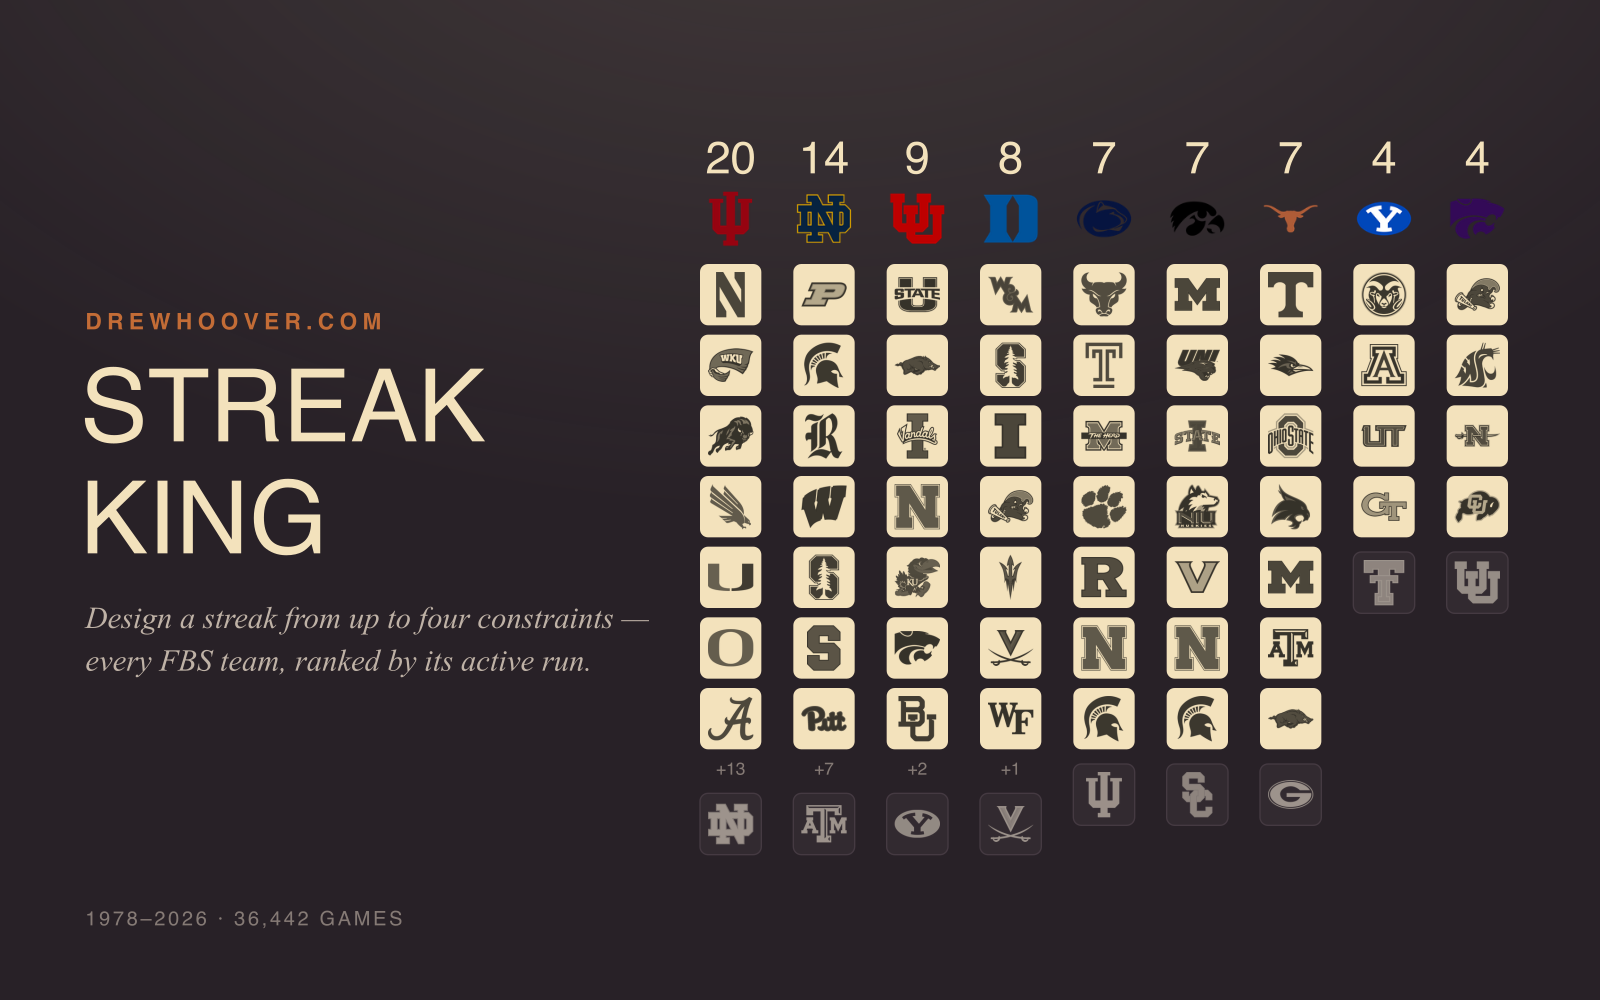
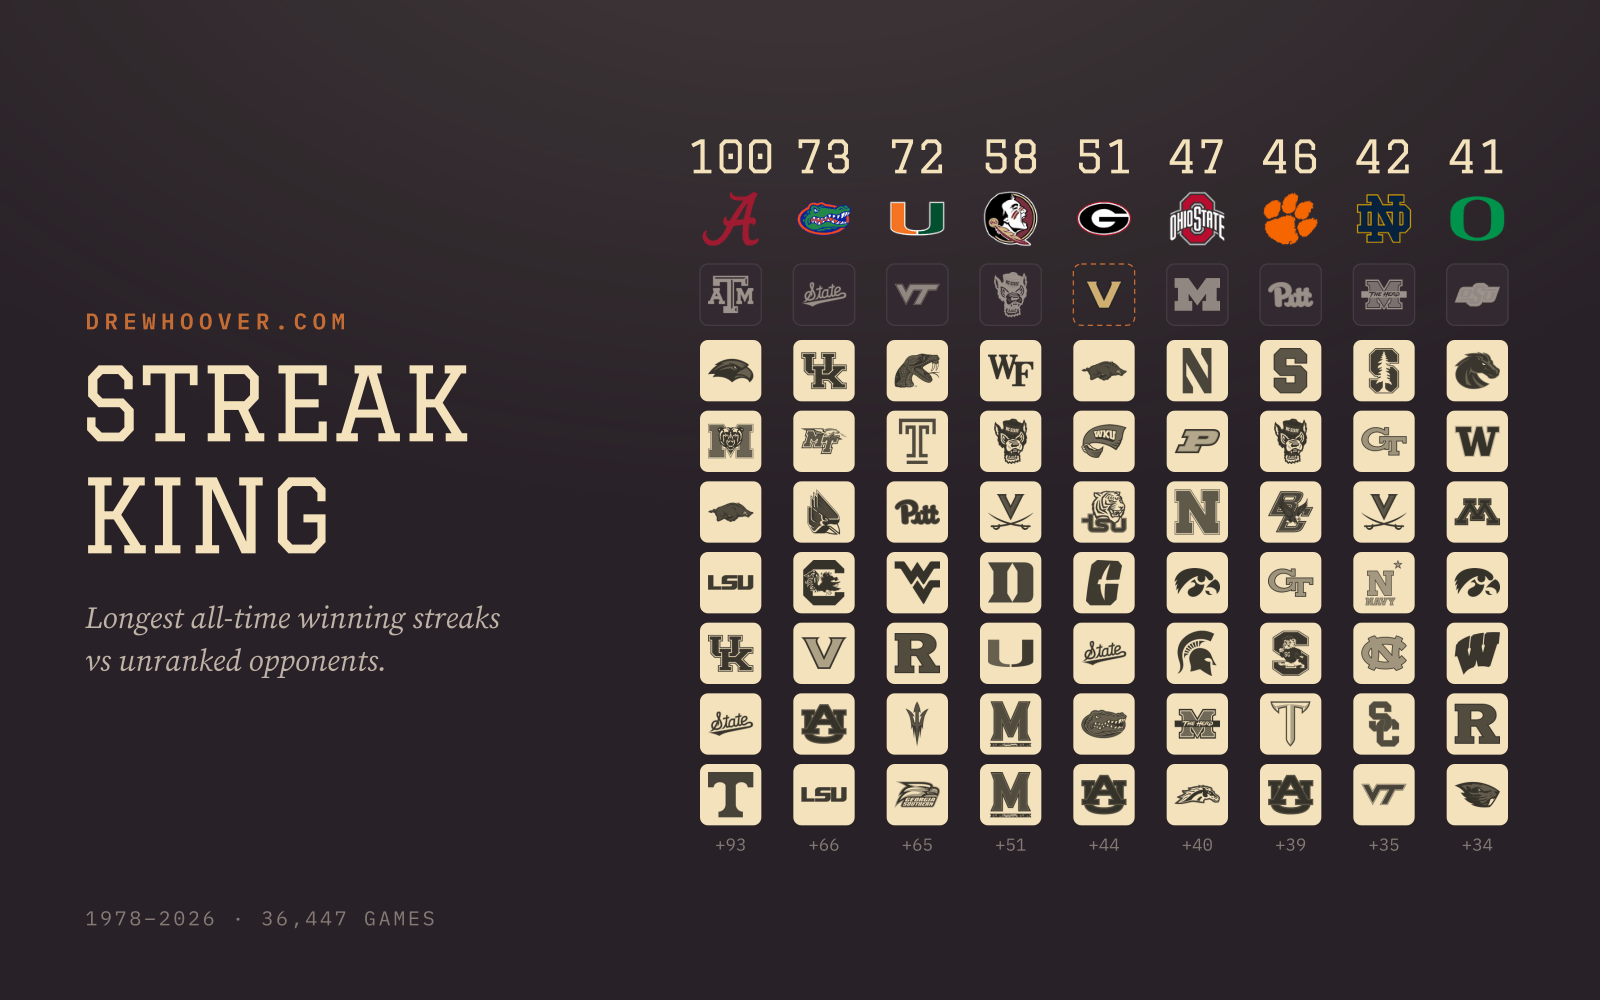
Refresh Streak King and Hostile Territory cards
Streak King: the repo's current card, drawn in the site's own fonts (Graduate,
Plex Mono, Source Serif) instead of the Helvetica fallback.
Hostile Territory: opponent-mark chips like the live site, Kiffin 1–8 struck
for 1–9 on the card and in the blurb. Blurbs now take ~~strike~~; meta
descriptions drop the struck text.

diff --git a/src/lib/blurb.ts b/src/lib/blurb.ts
@@ -5,12 +5,14 @@ const escapeHtml = (s: string) =>
 		.replace(/>/g, '&gt;')
 		.replace(/"/g, '&quot;');
 
-/** Escape HTML, then render *single-asterisk* spans as <em> (for set:html). */
+/** Escape HTML, then render *single-asterisk* spans as <em> and ~~tilde~~ spans as <s> (for set:html). */
 export function emphasize(text: string): string {
-	return escapeHtml(text).replace(/\*([^*]+)\*/g, '<em>$1</em>');
+	return escapeHtml(text)
+		.replace(/~~([^~]+)~~/g, '<s>$1</s>')
+		.replace(/\*([^*]+)\*/g, '<em>$1</em>');
 }
 
-/** Strip the emphasis markers for plain-text contexts like meta descriptions. */
+/** Strip the markers for plain-text contexts like meta descriptions; struck text drops out. */
 export function plainBlurb(text: string): string {
-	return text.replace(/\*([^*]+)\*/g, '$1');
+	return text.replace(/~~[^~]+~~ ?/g, '').replace(/\*([^*]+)\*/g, '$1');
 }

diff --git a/src/content/projects/hostile-territory.md b/src/content/projects/hostile-territory.md
@@ -1,6 +1,6 @@
 ---
 title: Hostile Territory
-blurb: "Lane Kiffin is 1–8 on the road against top-10 teams — ESPN flashed the graphic, but nobody flashed the denominator. Every head coach's true road record vs AP top-10 opponents since 1990, computed from game results, weekly AP polls, and coaching tenures, with a Sports-Reference receipt on every game. Winning in hostile territory is rarer than you think: road teams are 282–1545–6 all-time, and it's been done at the #1 team just 13 times in 36 seasons."
+blurb: "Lane Kiffin is ~~1–8~~ 1–9 on the road against top-10 teams — ESPN flashed the graphic, but nobody flashed the denominator. Every head coach's true road record vs AP top-10 opponents since 1990, computed from game results, weekly AP polls, and coaching tenures, with a Sports-Reference receipt on every game. Winning in hostile territory is rarer than you think: road teams are 282–1545–6 all-time, and it's been done at the #1 team just 13 times in 36 seasons."
 liveUrl: https://drewhoover.com/hostile-territory/
 repoUrl: https://github.com/DrewHoo/hostile-territory
 tags:
@@ -10,9 +10,9 @@ stack:
   - Vite
   - React
 cover: /projects/hostile-territory.png
-coverAlt: Letterpress-style night poster titled Hostile Territory with a row of stamped win/loss marks for Lane Kiffin's road games
+coverAlt: Night poster titled Hostile Territory with a row of chips for Lane Kiffin's road games vs the AP top 10, one cream win among nine dark losses, each marked with the opponent's logo, captioned 1–8 struck through and 1–9
 pinned: false
 order: 44
 created: 2026-09-19
-updated: 2026-09-19
+updated: 2026-09-29
 ---

diff --git a/src/content/projects/cfb-streak-king.md b/src/content/projects/cfb-streak-king.md
@@ -14,5 +14,5 @@ coverAlt: Dark poster titled Streak King showing the real streak board — colum
 pinned: false
 order: 45
 created: 2026-09-26
-updated: 2026-09-27
+updated: 2026-09-29
 ---
